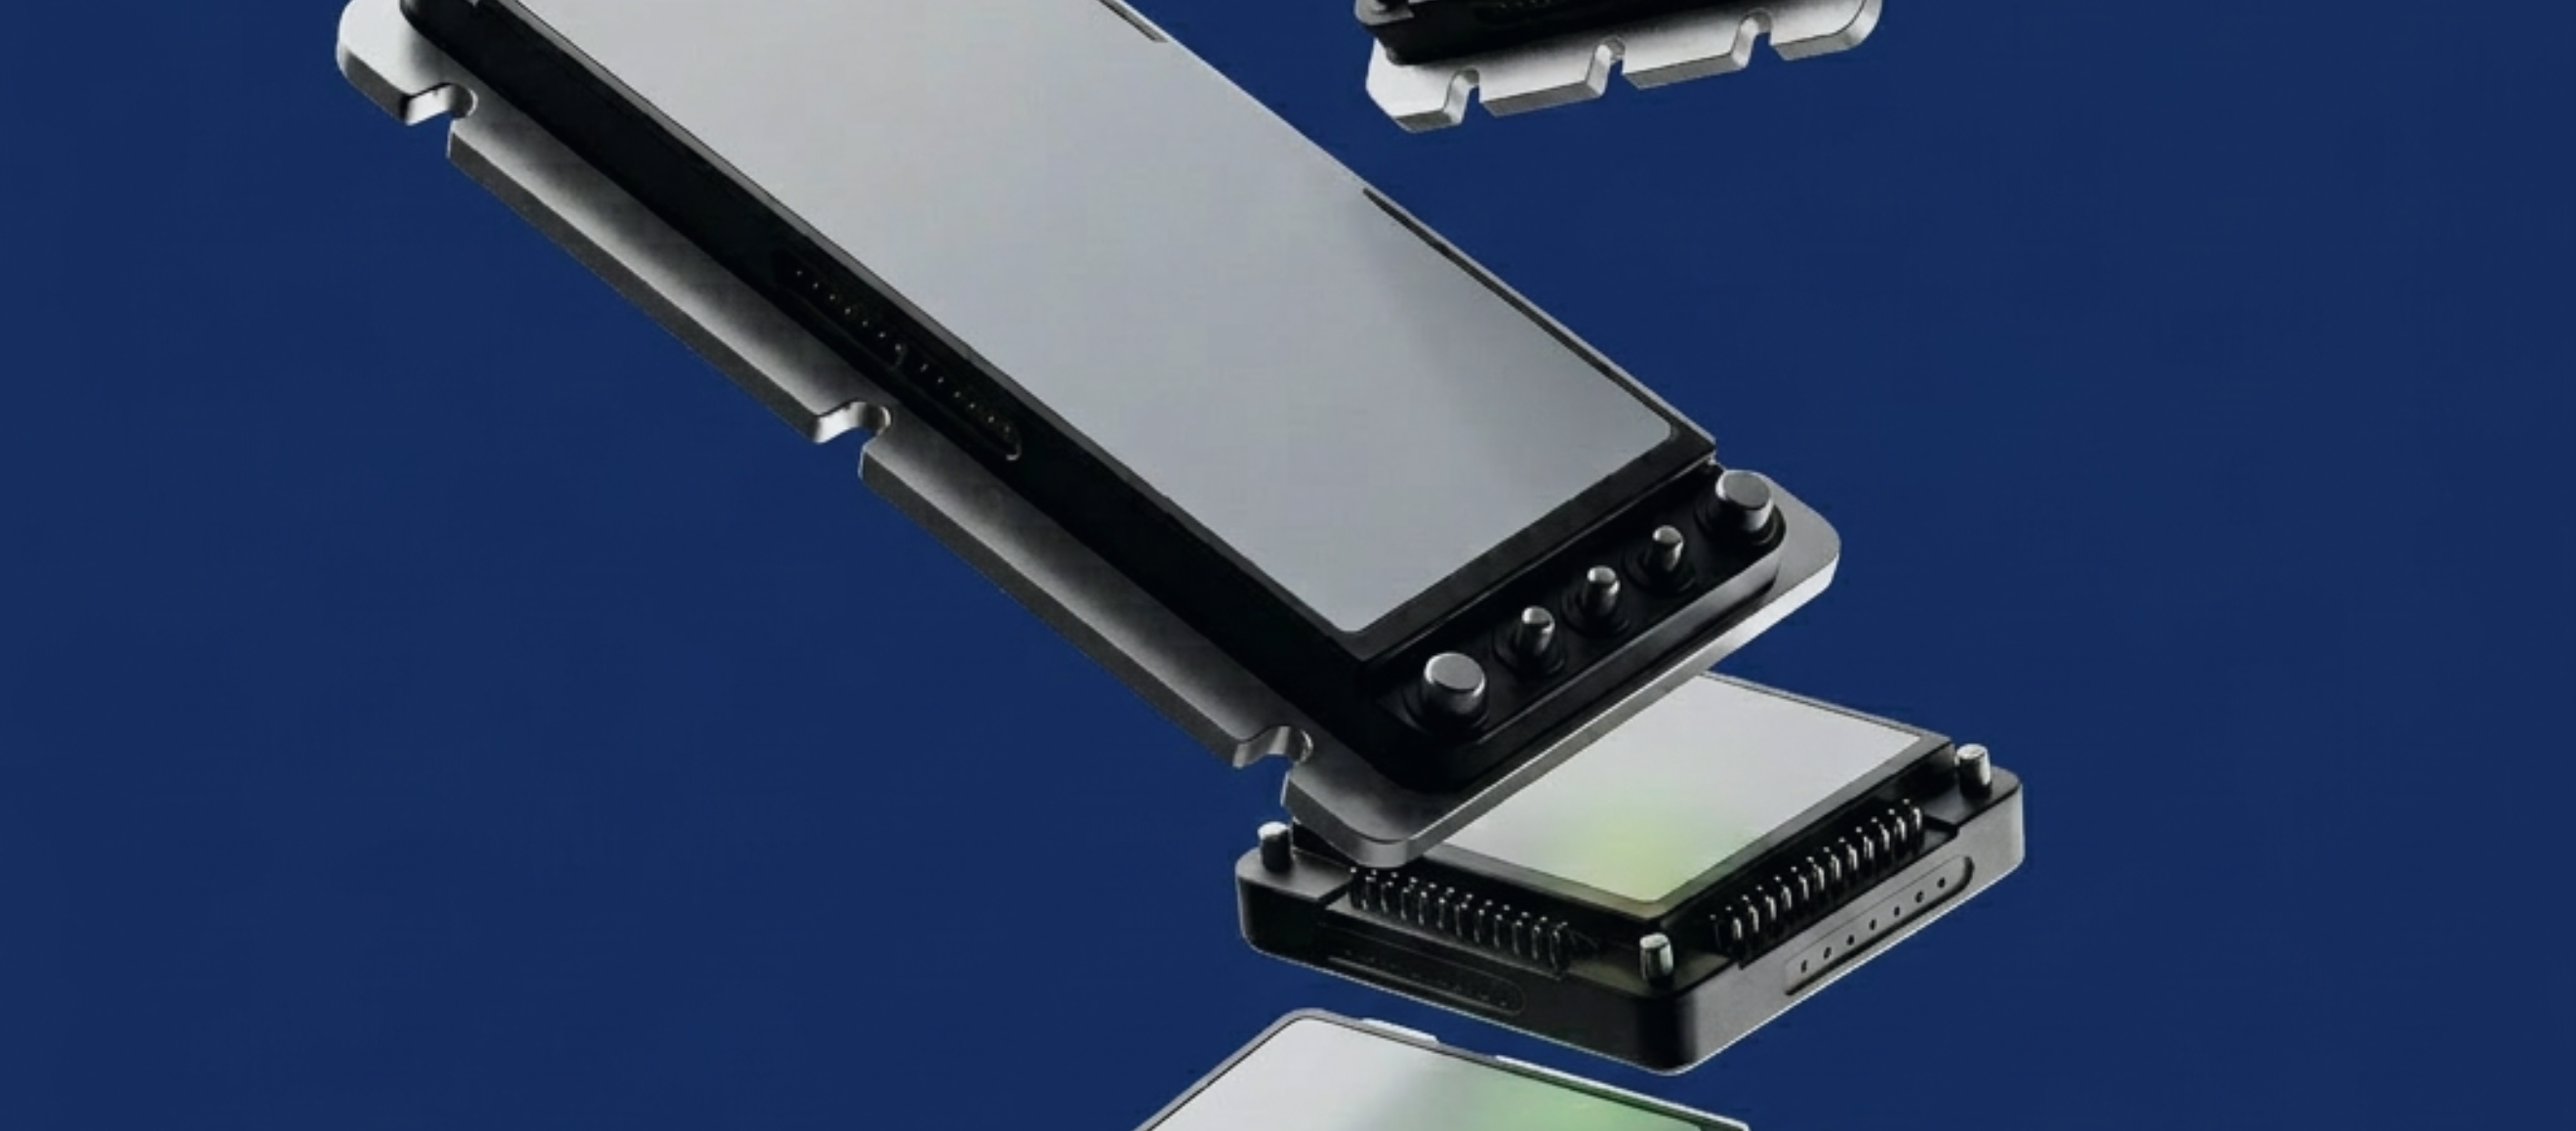
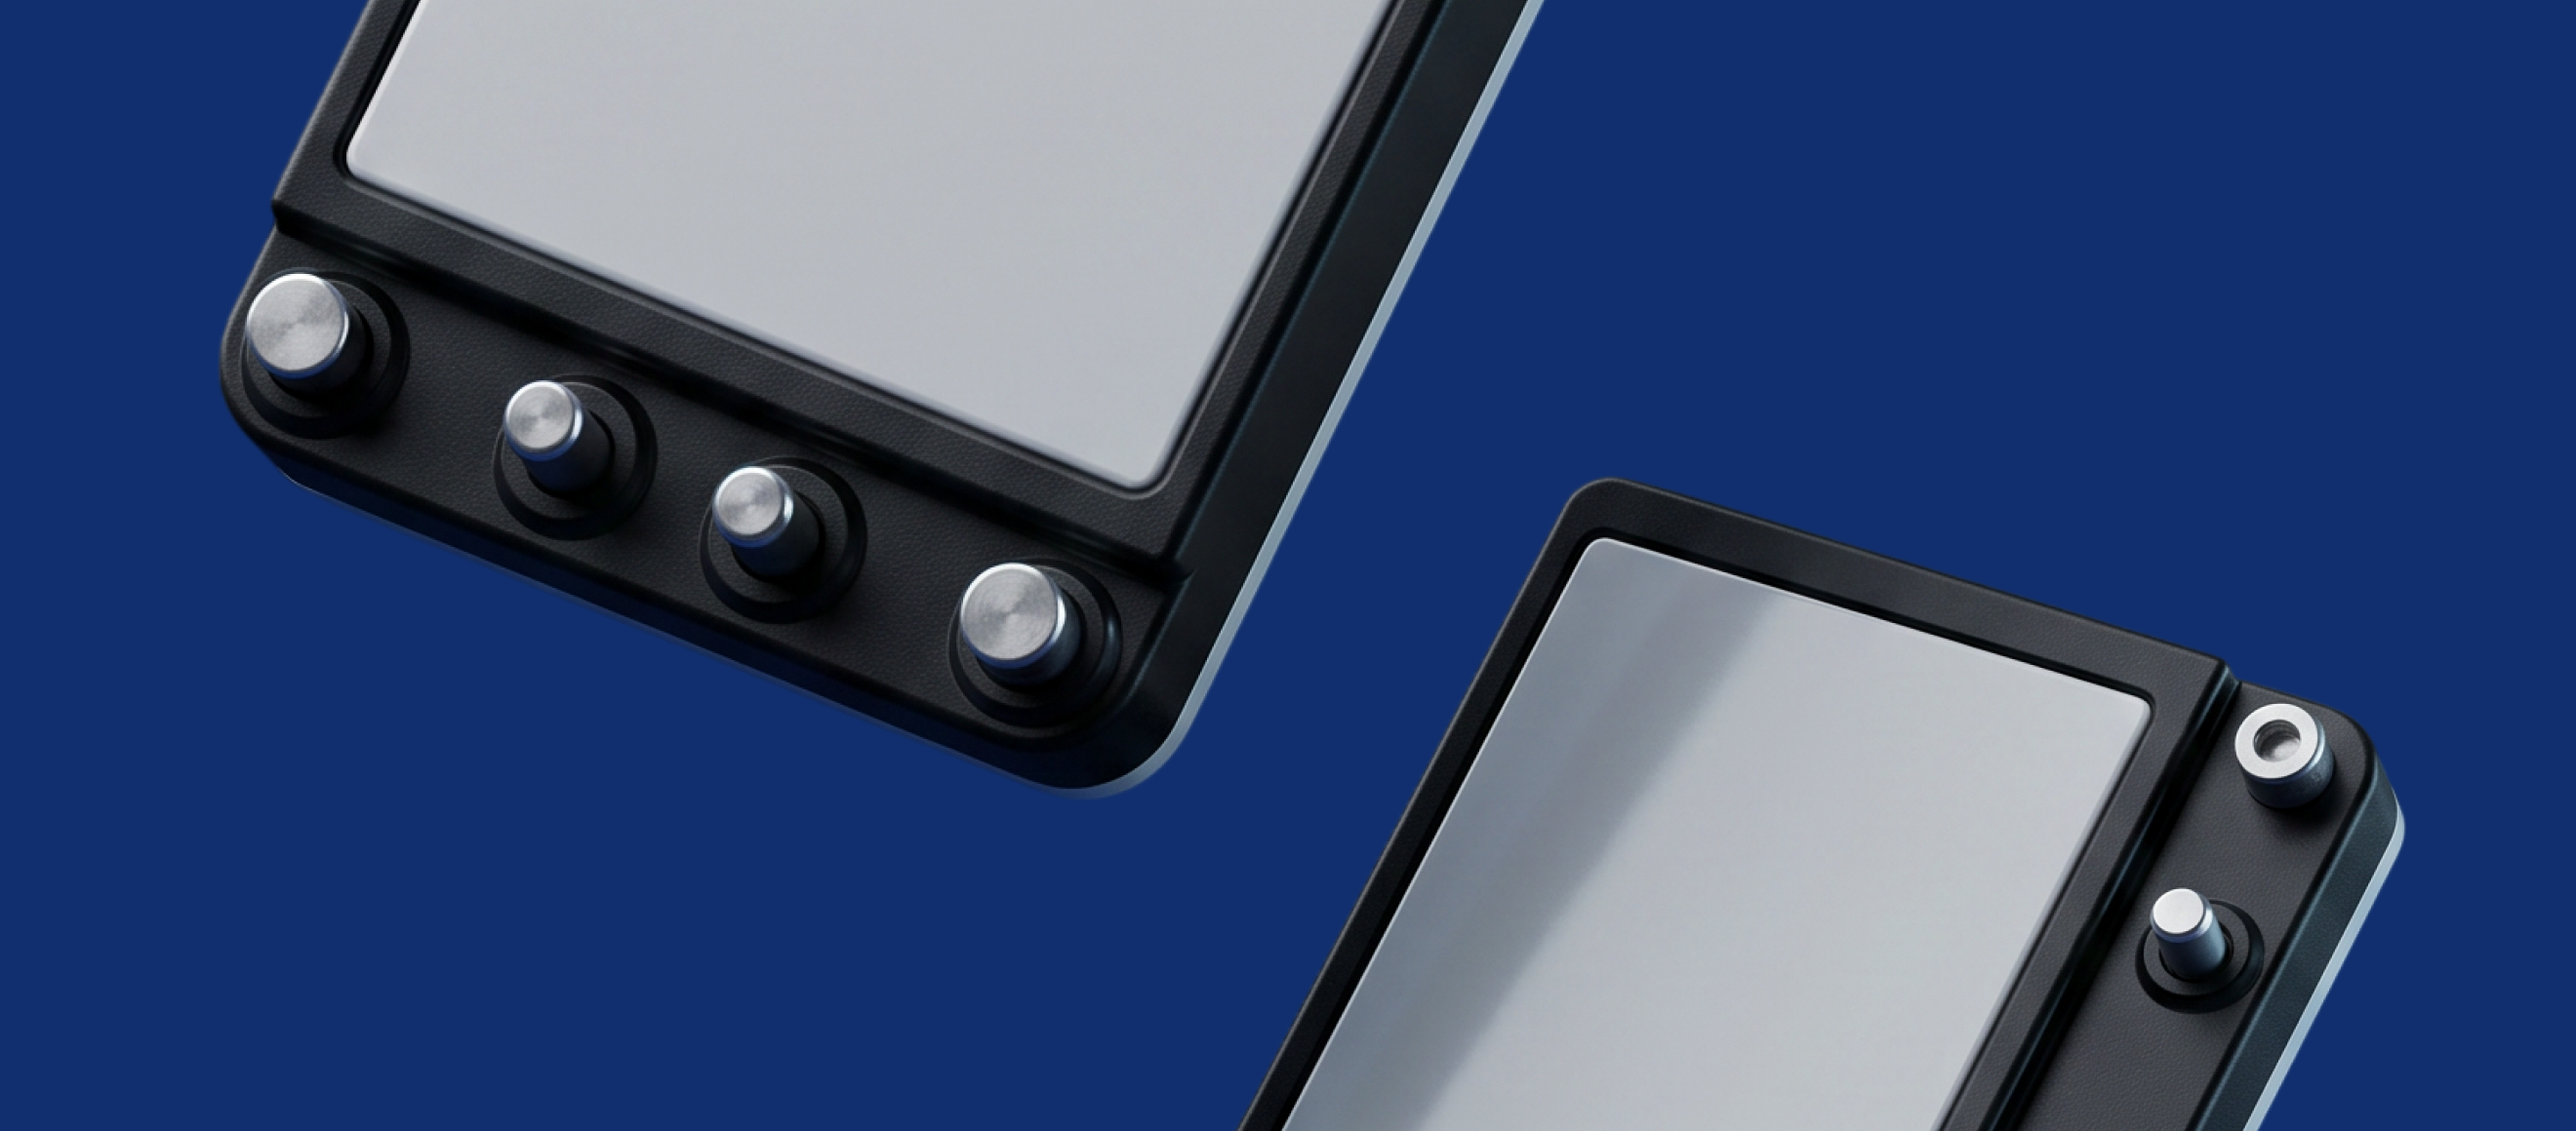
Главная: новое фото баннера преобразователей (PC + mobile через picture)
- pc.webp (2640×1160) → AwJ65.webp
- mobile.webp (400×400) → AwJ65-mobile.webp
- <picture> с media (max-width: 768px) для адаптивной загрузки

diff --git a/index.html b/index.html
@@ -19,8 +19,8 @@
   <link rel="stylesheet" href="css/reset.css?v=5">
   <link rel="stylesheet" href="css/variables.css?v=5">
   <link rel="stylesheet" href="css/base.css?v=8">
-  <link rel="stylesheet" href="css/layout.css?v=5">
-  <link rel="stylesheet" href="css/components.css?v=18">
+  <link rel="stylesheet" href="css/layout.css?v=7">
+  <link rel="stylesheet" href="css/components.css?v=19">
   <link rel="stylesheet" href="css/animations.css?v=5">
   <link rel="stylesheet" href="css/mobile.css?v=19" media="(max-width: 768px)">
 </head>
@@ -228,7 +228,10 @@
   <section class="product-banner">
     <div class="container">
       <div class="product-banner__wrap">
-        <img src="assets/images/AwJ65.webp" alt="Преобразователи напряжения" class="product-banner__img" data-animate="fade-up">
+        <picture>
+          <source media="(max-width: 768px)" srcset="assets/images/AwJ65-mobile.webp?v=2">
+          <img src="assets/images/AwJ65.webp?v=2" alt="Преобразователи напряжения" class="product-banner__img" data-animate="fade-up">
+        </picture>
         <div class="product-banner__content" data-animate="fade-up">
           <span class="product-banner__label">ВЫСОКОНАДЁЖНЫЕ РЕШЕНИЯ</span>
           <h2 class="product-banner__title">ПРЕОБРАЗОВАТЕЛИ НАПРЯЖЕНИЯ</h2>
